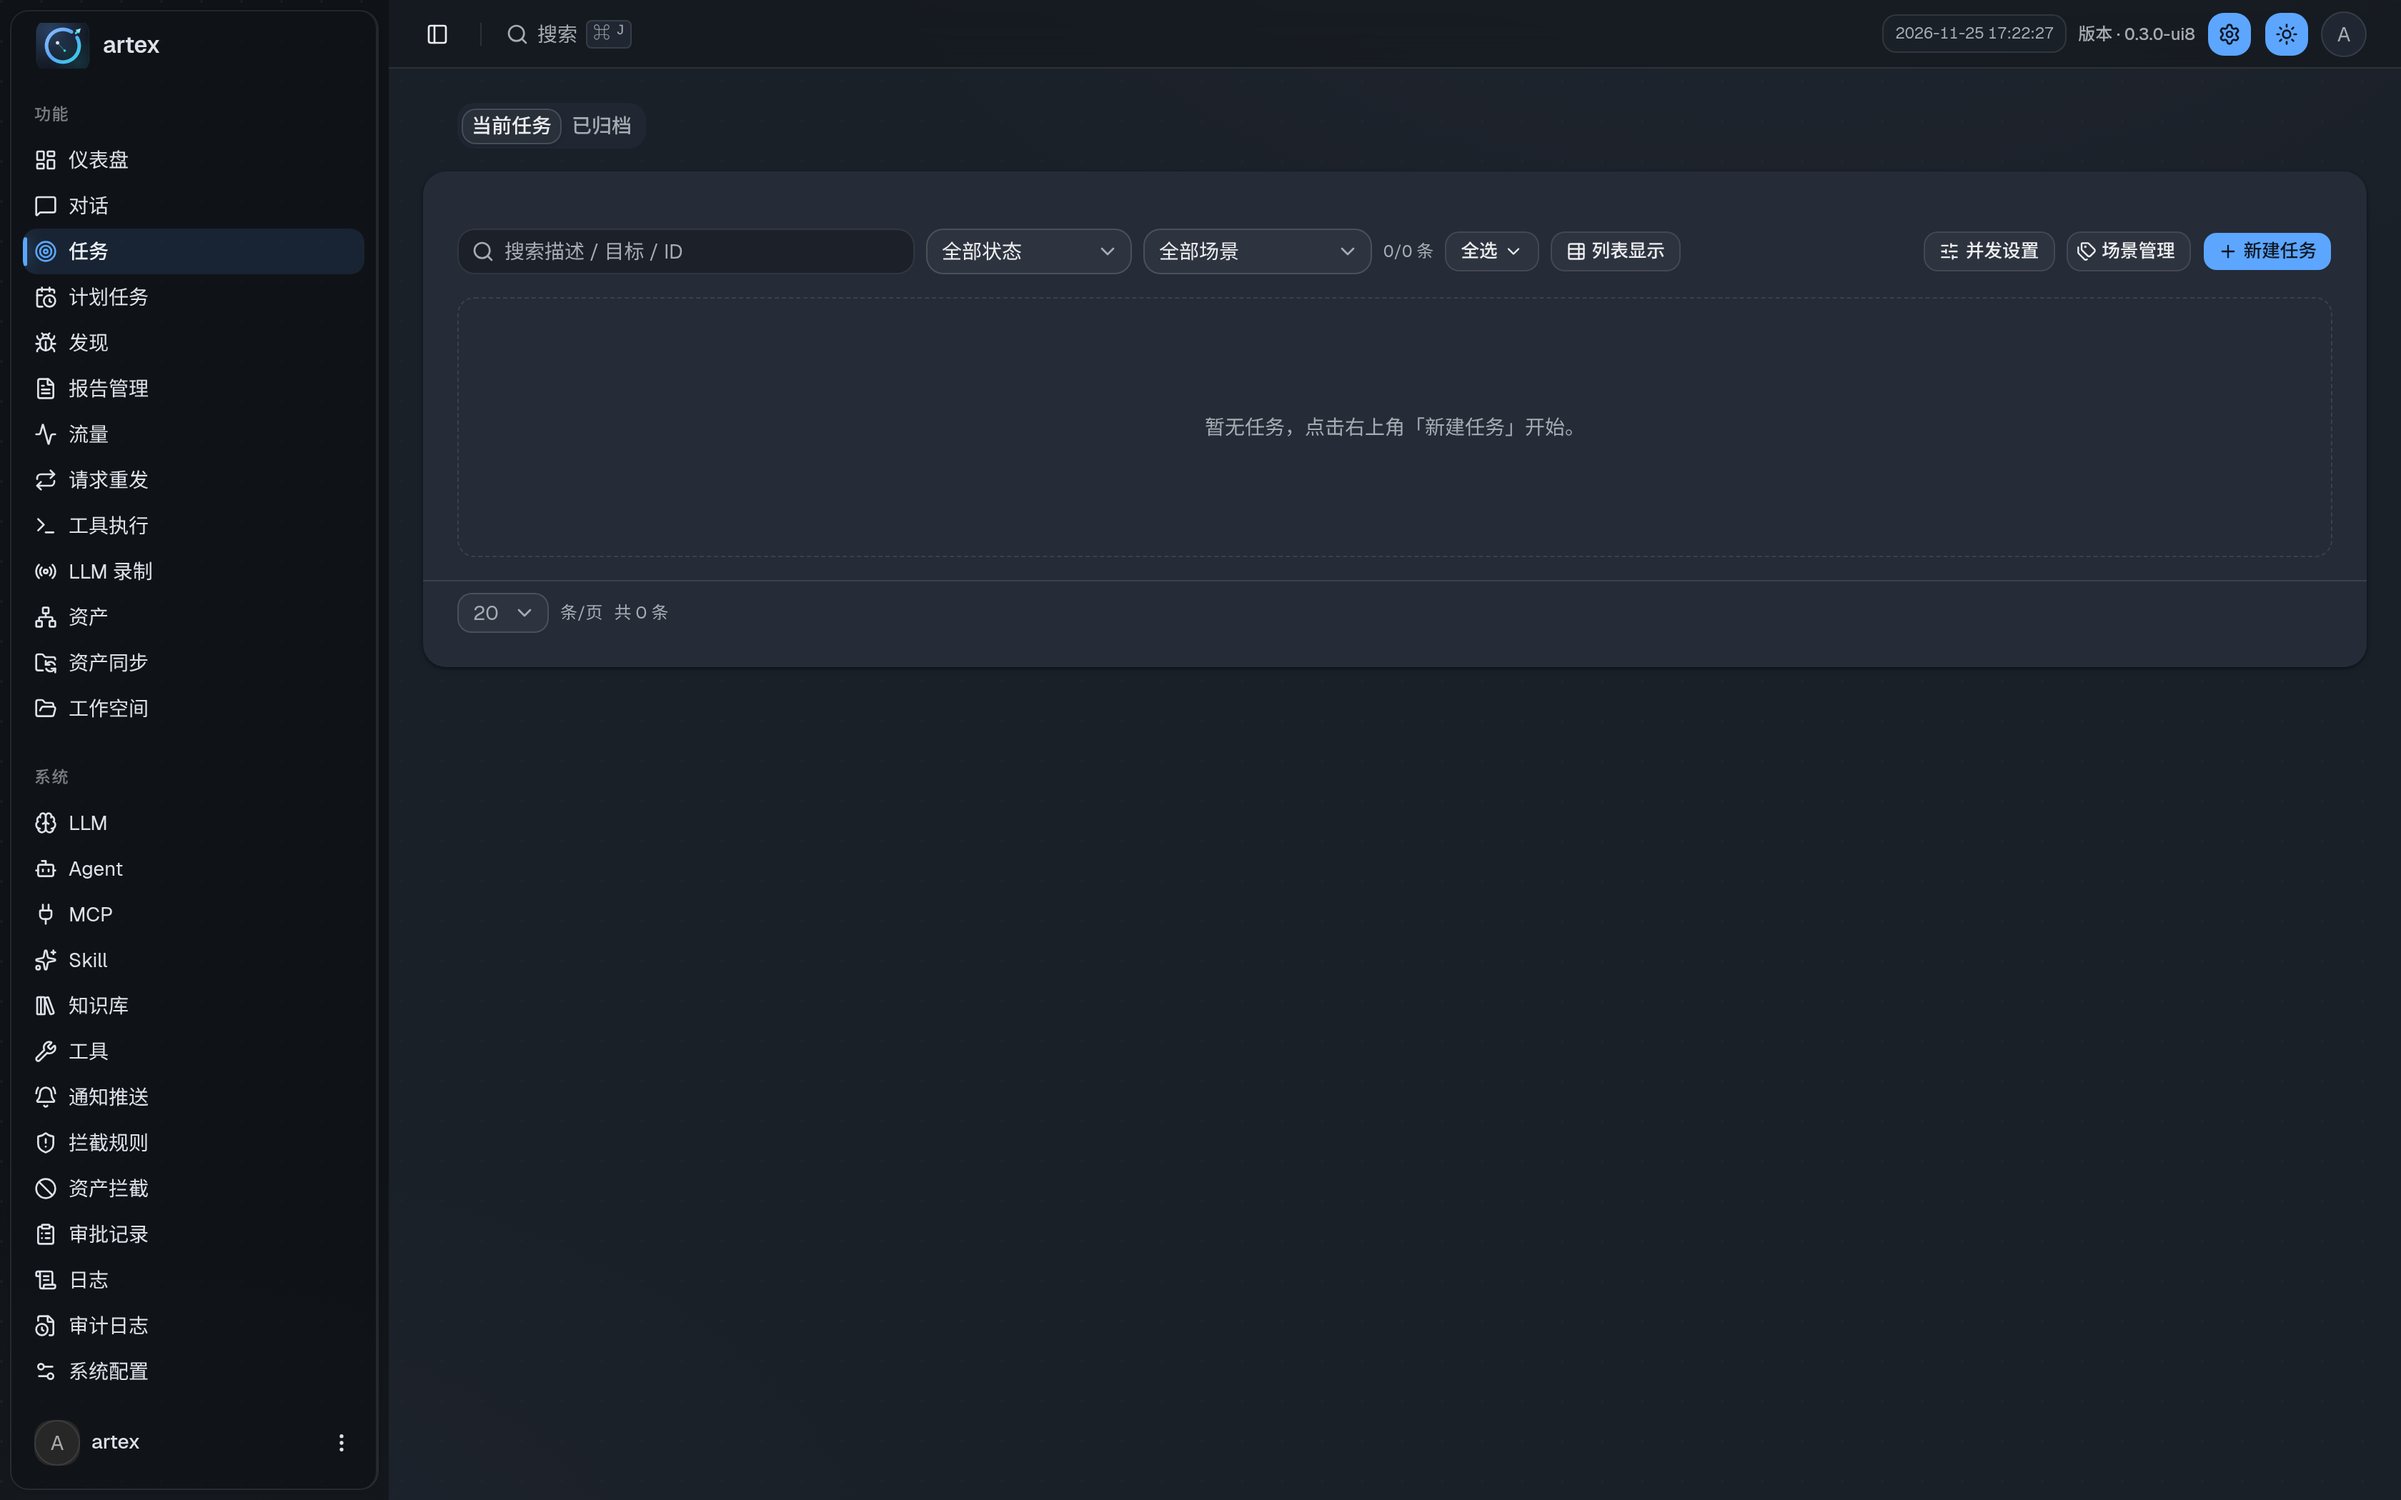
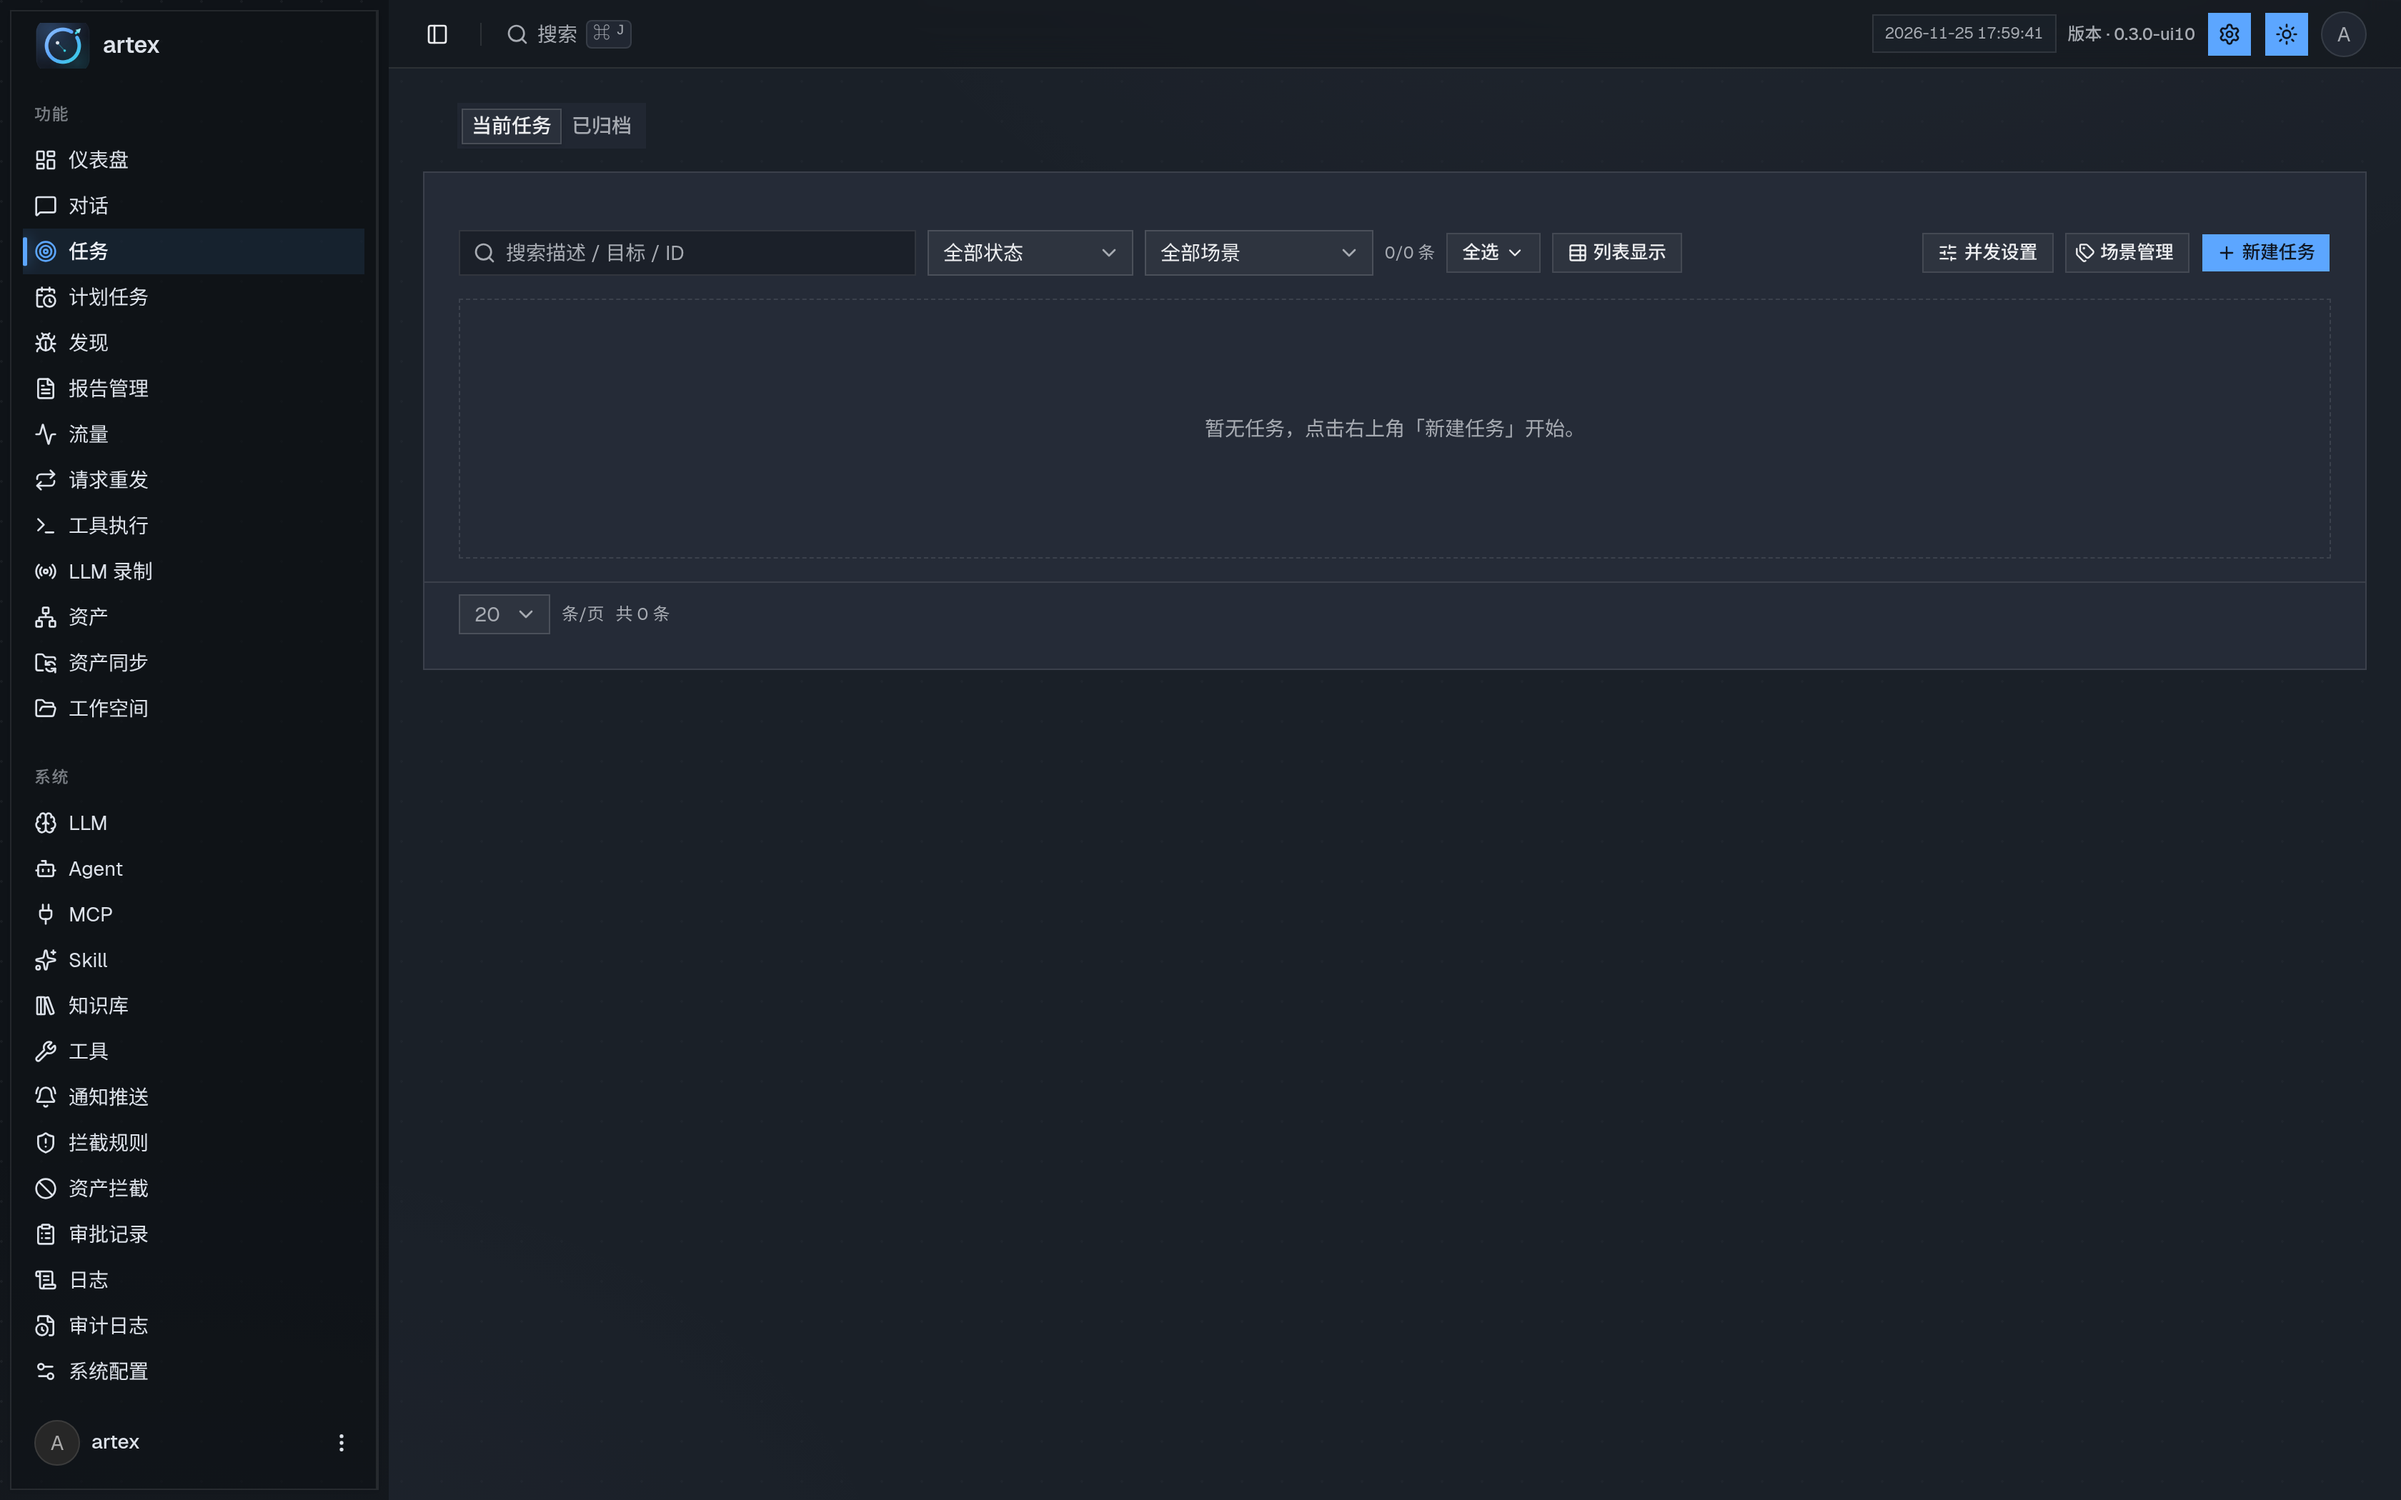
feat(ui): 全站直角，去掉圆角带来的 AI 生成感
- --radius 及派生档位全部归零（0px）
- shadcn 写死的 rounded-xl 等不跟 token 走，按 data-slot 精确覆盖一遍
  （实测卡片残留 4px 就是这条漏网）
- 保留头像/开关/滑块/进度环/单选点为圆形（物理上是圆的，改方会读成 bug）
- 直角下补偿：焦点用 outline+offset、卡片靠 1px 描边、弹层阴影加权
- 更新 6 张暗色截图

diff --git a/web/src/styles/presets/abyss.css b/web/src/styles/presets/abyss.css
@@ -30,7 +30,17 @@ value: abyss
   --severity-high: #dc2626;
   --severity-medium: #b45309;
   --severity-low: #475569;
-  --radius: 0.75rem;
+  /* 直角：项目统一禁用圆角卡片/按钮。--radius 归零后，shadcn 派生的
+     --radius-sm/md/lg/xl（calc(--radius ± Npx)）全部落到 0 或负值，
+     负值会被浏览器钳成 0，所以整站自然变成直角，不需要逐组件改类名。 */
+  --radius: 0px;
+  --radius-sm: 0px;
+  --radius-md: 0px;
+  --radius-lg: 0px;
+  --radius-xl: 0px;
+  --radius-2xl: 0px;
+  --radius-3xl: 0px;
+  --radius-4xl: 0px;
 
   --background: oklch(0.985 0.002 250);
   --foreground: oklch(0.21 0.012 250);
@@ -86,7 +96,15 @@ value: abyss
   --severity-high: #fca5a5;
   --severity-medium: #e8b268;
   --severity-low: #94a3b8;
-  --radius: 0.75rem;
+  /* 同上：直角 */
+  --radius: 0px;
+  --radius-sm: 0px;
+  --radius-md: 0px;
+  --radius-lg: 0px;
+  --radius-xl: 0px;
+  --radius-2xl: 0px;
+  --radius-3xl: 0px;
+  --radius-4xl: 0px;
 
   /* 画布 = alkaid 的 --ground（oklch(0.185 0.012 250)，实测 = #0f1318）。
      这是"壳层地面"：**比面板暗**。层次不是靠"画布亮一档"，而是靠面板比地面亮
@@ -314,4 +332,114 @@ value: abyss
 .dark[data-theme-preset="abyss"] textarea:focus-visible {
   border-color: color-mix(in oklab, var(--primary) 55%, transparent);
   box-shadow: 0 0 0 3px color-mix(in oklab, var(--primary) 18%, transparent);
+}
+
+/* ═══════════ 直角（0 radius）下的细节补偿 ═══════════
+   圆角原本承担了"柔和"和"焦点指示"两项功能，归零后这两件事要换别的方式表达，
+   否则界面会显得生硬、且焦点不可见。
+
+   1) 保留必须为圆的控件：头像、开关、滑块、进度环、单选点、滚动条拇指。
+      这些是"物理上是圆的"，改成方的会读成 bug 而不是风格。 */
+[data-theme-preset="abyss"] [data-slot="avatar"],
+[data-theme-preset="abyss"] [data-slot="avatar-image"],
+[data-theme-preset="abyss"] [data-slot="avatar-fallback"],
+[data-theme-preset="abyss"] [data-slot="switch"],
+[data-theme-preset="abyss"] [data-slot="switch-thumb"],
+[data-theme-preset="abyss"] [data-slot="slider-thumb"],
+[data-theme-preset="abyss"] [data-slot="progress-indicator"],
+[data-theme-preset="abyss"] [data-slot="radio-group-item"] {
+  border-radius: 9999px;
+}
+
+/* 2) 焦点环：没有圆角后，2px ring 偏移会显得很近，改成外扩 2px 的清晰描边 */
+[data-theme-preset="abyss"] button:focus-visible,
+[data-theme-preset="abyss"] a:focus-visible,
+[data-theme-preset="abyss"] [role="button"]:focus-visible {
+  outline: 2px solid var(--ring);
+  outline-offset: 2px;
+}
+
+/* 3) 卡片/面板：直角下靠 1px 描边立边界（圆角时靠阴影就够，直角时不够） */
+.dark[data-theme-preset="abyss"] [data-slot="card"] {
+  border: 1px solid color-mix(in oklab, var(--border) 100%, transparent);
+  box-shadow: none;
+}
+
+/* 4) 侧栏选中态：直角 + 3px 竖条会更硬，改用左缘整条描边更利落 */
+.dark[data-theme-preset="abyss"] [data-slot="sidebar-menu-button"][data-active="true"] {
+  background: color-mix(in oklab, var(--primary) 10%, transparent);
+}
+
+/* 5) 弹层：直角下阴影是唯一的"浮起"信号，权重加大 */
+.dark[data-theme-preset="abyss"] [data-slot="popover-content"],
+.dark[data-theme-preset="abyss"] [data-slot="dropdown-menu-content"],
+.dark[data-theme-preset="abyss"] [data-slot="dialog-content"] {
+  border: 1px solid var(--border);
+  box-shadow: 0 16px 40px -20px rgb(0 0 0 / 0.7);
+}
+
+/* ═══════════ 全局直角兜底 ═══════════
+   --radius 归零只能覆盖走 token 的圆角（rounded-sm/md/lg）。shadcn 组件里还有一批
+   直接写死的 Tailwind 档位（rounded-xl / rounded-2xl / rounded-t-xl / rounded-[min(...)]），
+   它们读的是 Tailwind 内建 scale，不跟 --radius 走 —— 实测卡片仍是 4px，就是这条漏网。
+
+   这里按 data-slot 精确覆盖，不用 `* { border-radius: 0 }` 这种暴力写法：
+   那会把头像、开关、滑块、进度环、单选点一起压成方的，看着像坏了。
+   只有明确"必须是圆的"那几个 slot 例外（见下方白名单）。 */
+[data-theme-preset="abyss"] :where(
+  [data-slot="card"],
+  [data-slot="card-header"],
+  [data-slot="card-footer"],
+  [data-slot="card-action"],
+  [data-slot="button"],
+  [data-slot="input"],
+  [data-slot="textarea"],
+  [data-slot="select-trigger"],
+  [data-slot="select-content"],
+  [data-slot="select-item"],
+  [data-slot="dropdown-menu-content"],
+  [data-slot="dropdown-menu-item"],
+  [data-slot="popover-content"],
+  [data-slot="dialog-content"],
+  [data-slot="dialog-header"],
+  [data-slot="dialog-footer"],
+  [data-slot="sheet-content"],
+  [data-slot="drawer-content"],
+  [data-slot="tabs-list"],
+  [data-slot="tabs-trigger"],
+  [data-slot="badge"],
+  [data-slot="alert"],
+  [data-slot="table"],
+  [data-slot="sidebar-menu-button"],
+  [data-slot="sidebar-group-label"],
+  [data-slot="sidebar-menu-sub-button"],
+  [data-slot="tooltip-content"],
+  [data-slot="command"],
+  [data-slot="command-item"],
+  [data-slot="checkbox"],
+  [data-slot="separator"],
+  [data-slot="scroll-area-thumb"]
+) {
+  border-radius: 0 !important;
+}
+
+/* 卡片内的图片与页脚也要跟着直角（组件里写的是 rounded-t-xl / rounded-b-xl） */
+[data-theme-preset="abyss"] [data-slot="card"] > img:first-child,
+[data-theme-preset="abyss"] [data-slot="card"] > img:last-child {
+  border-radius: 0 !important;
+}
+
+/* 白名单：物理上必须是圆的控件，显式还原 */
+[data-theme-preset="abyss"] [data-slot="avatar"],
+[data-theme-preset="abyss"] [data-slot="avatar-image"],
+[data-theme-preset="abyss"] [data-slot="avatar-fallback"],
+[data-theme-preset="abyss"] [data-slot="switch"],
+[data-theme-preset="abyss"] [data-slot="switch-thumb"],
+[data-theme-preset="abyss"] [data-slot="slider-thumb"],
+[data-theme-preset="abyss"] [data-slot="slider-track"],
+[data-theme-preset="abyss"] [data-slot="progress"],
+[data-theme-preset="abyss"] [data-slot="progress-indicator"],
+[data-theme-preset="abyss"] [data-slot="radio-group-item"],
+[data-theme-preset="abyss"] [data-slot="scroll-area-thumb"] {
+  border-radius: 9999px !important;
 }

diff --git a/CHANGELOG.md b/CHANGELOG.md
@@ -20,6 +20,11 @@
   玻璃 55% 不透明度。点阵而非线网格、中性灰而非蓝紫光池，这两条都是参考实现踩过后
   写进注释的结论（线网格模糊后留直纹、蓝紫光池会让整屏发蓝）。
   侧栏选中态改用绝对定位的 3px 直竖条（不再用 inset shadow —— 那会被圆角切成弧线）。
+- **全站直角**：`--radius` 及其派生档位全部归零。圆角是"AI 生成感"的主要来源，
+  改为工业/工具类界面常见的直角，靠 1px 描边与阴影分层。**例外**：头像、开关、
+  滑块、进度环、单选点保持圆形（物理上是圆的，改方会读成 bug）。
+  shadcn 组件里写死的 `rounded-xl` 等不跟 `--radius` 走，因此另按 `data-slot`
+  精确覆盖一遍（实测卡片残留 4px 就是这条漏网）。
 - **Logo / 图标重构**（`web/public/logo.svg`、`logo.png`）。深空底 + 断口圆环 +
   冲出缺口的箭头，表达"找到破口"；小尺寸（32/64px）下仍可辨识。
 - **暗色模式产品截图**（`screenshots/*-dark.png`）：仪表盘、任务、发现、资产、LLM、拦截规则。
